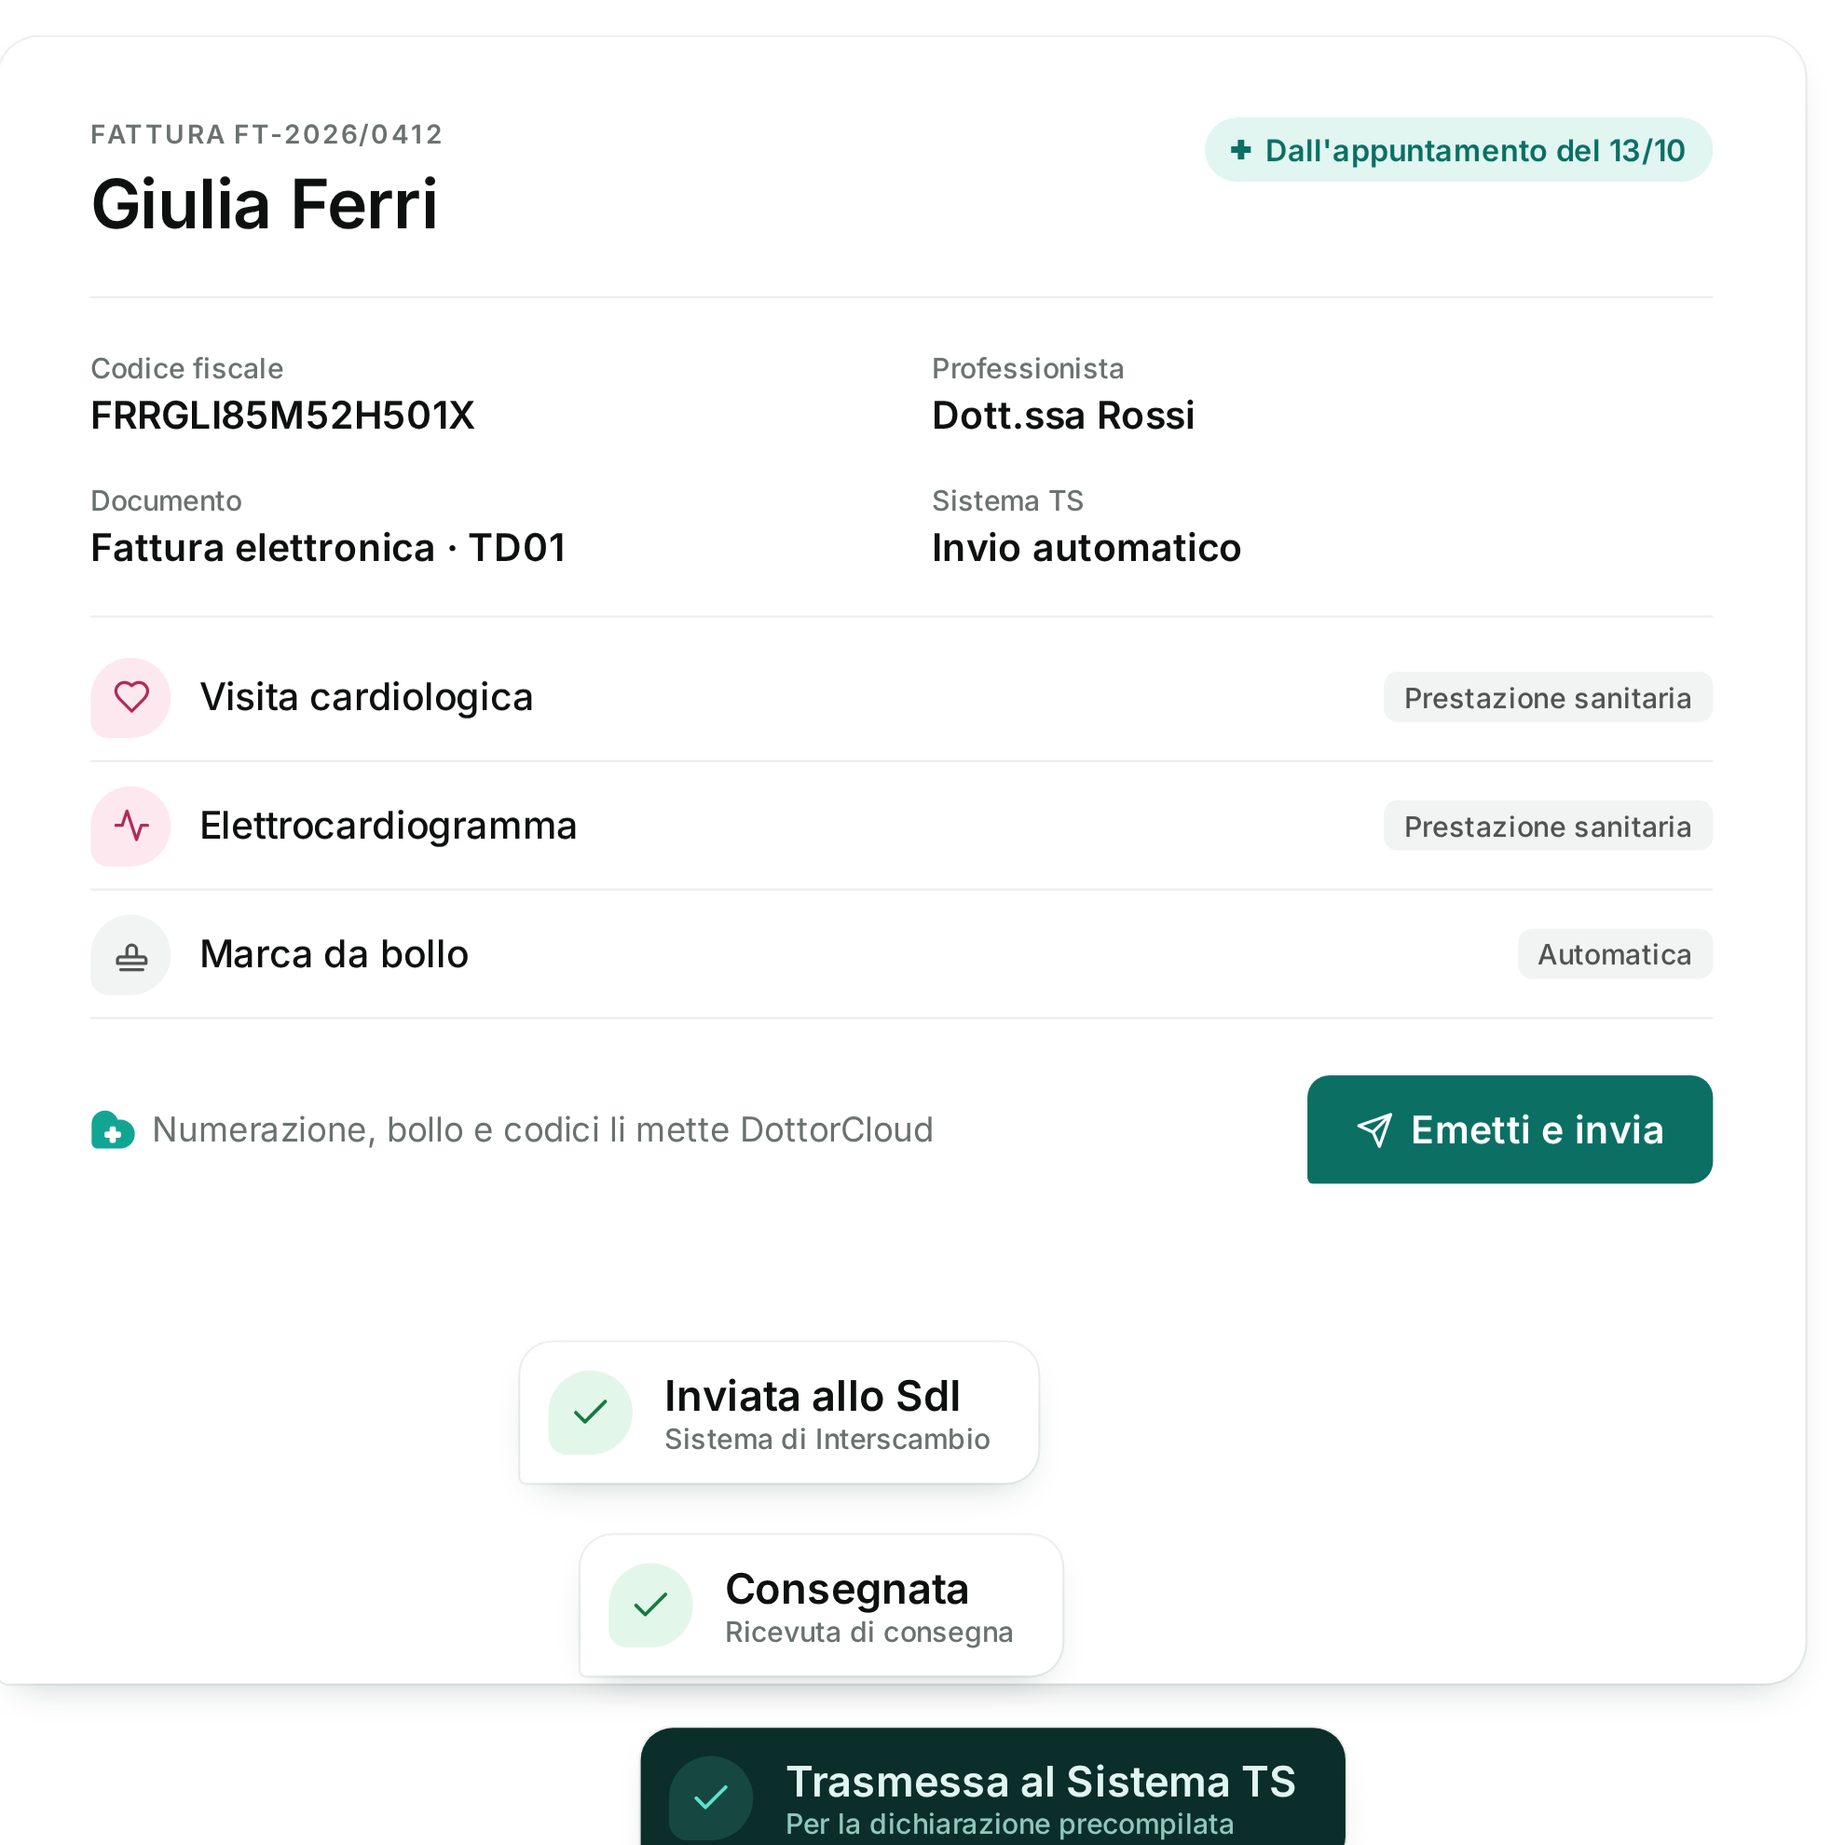
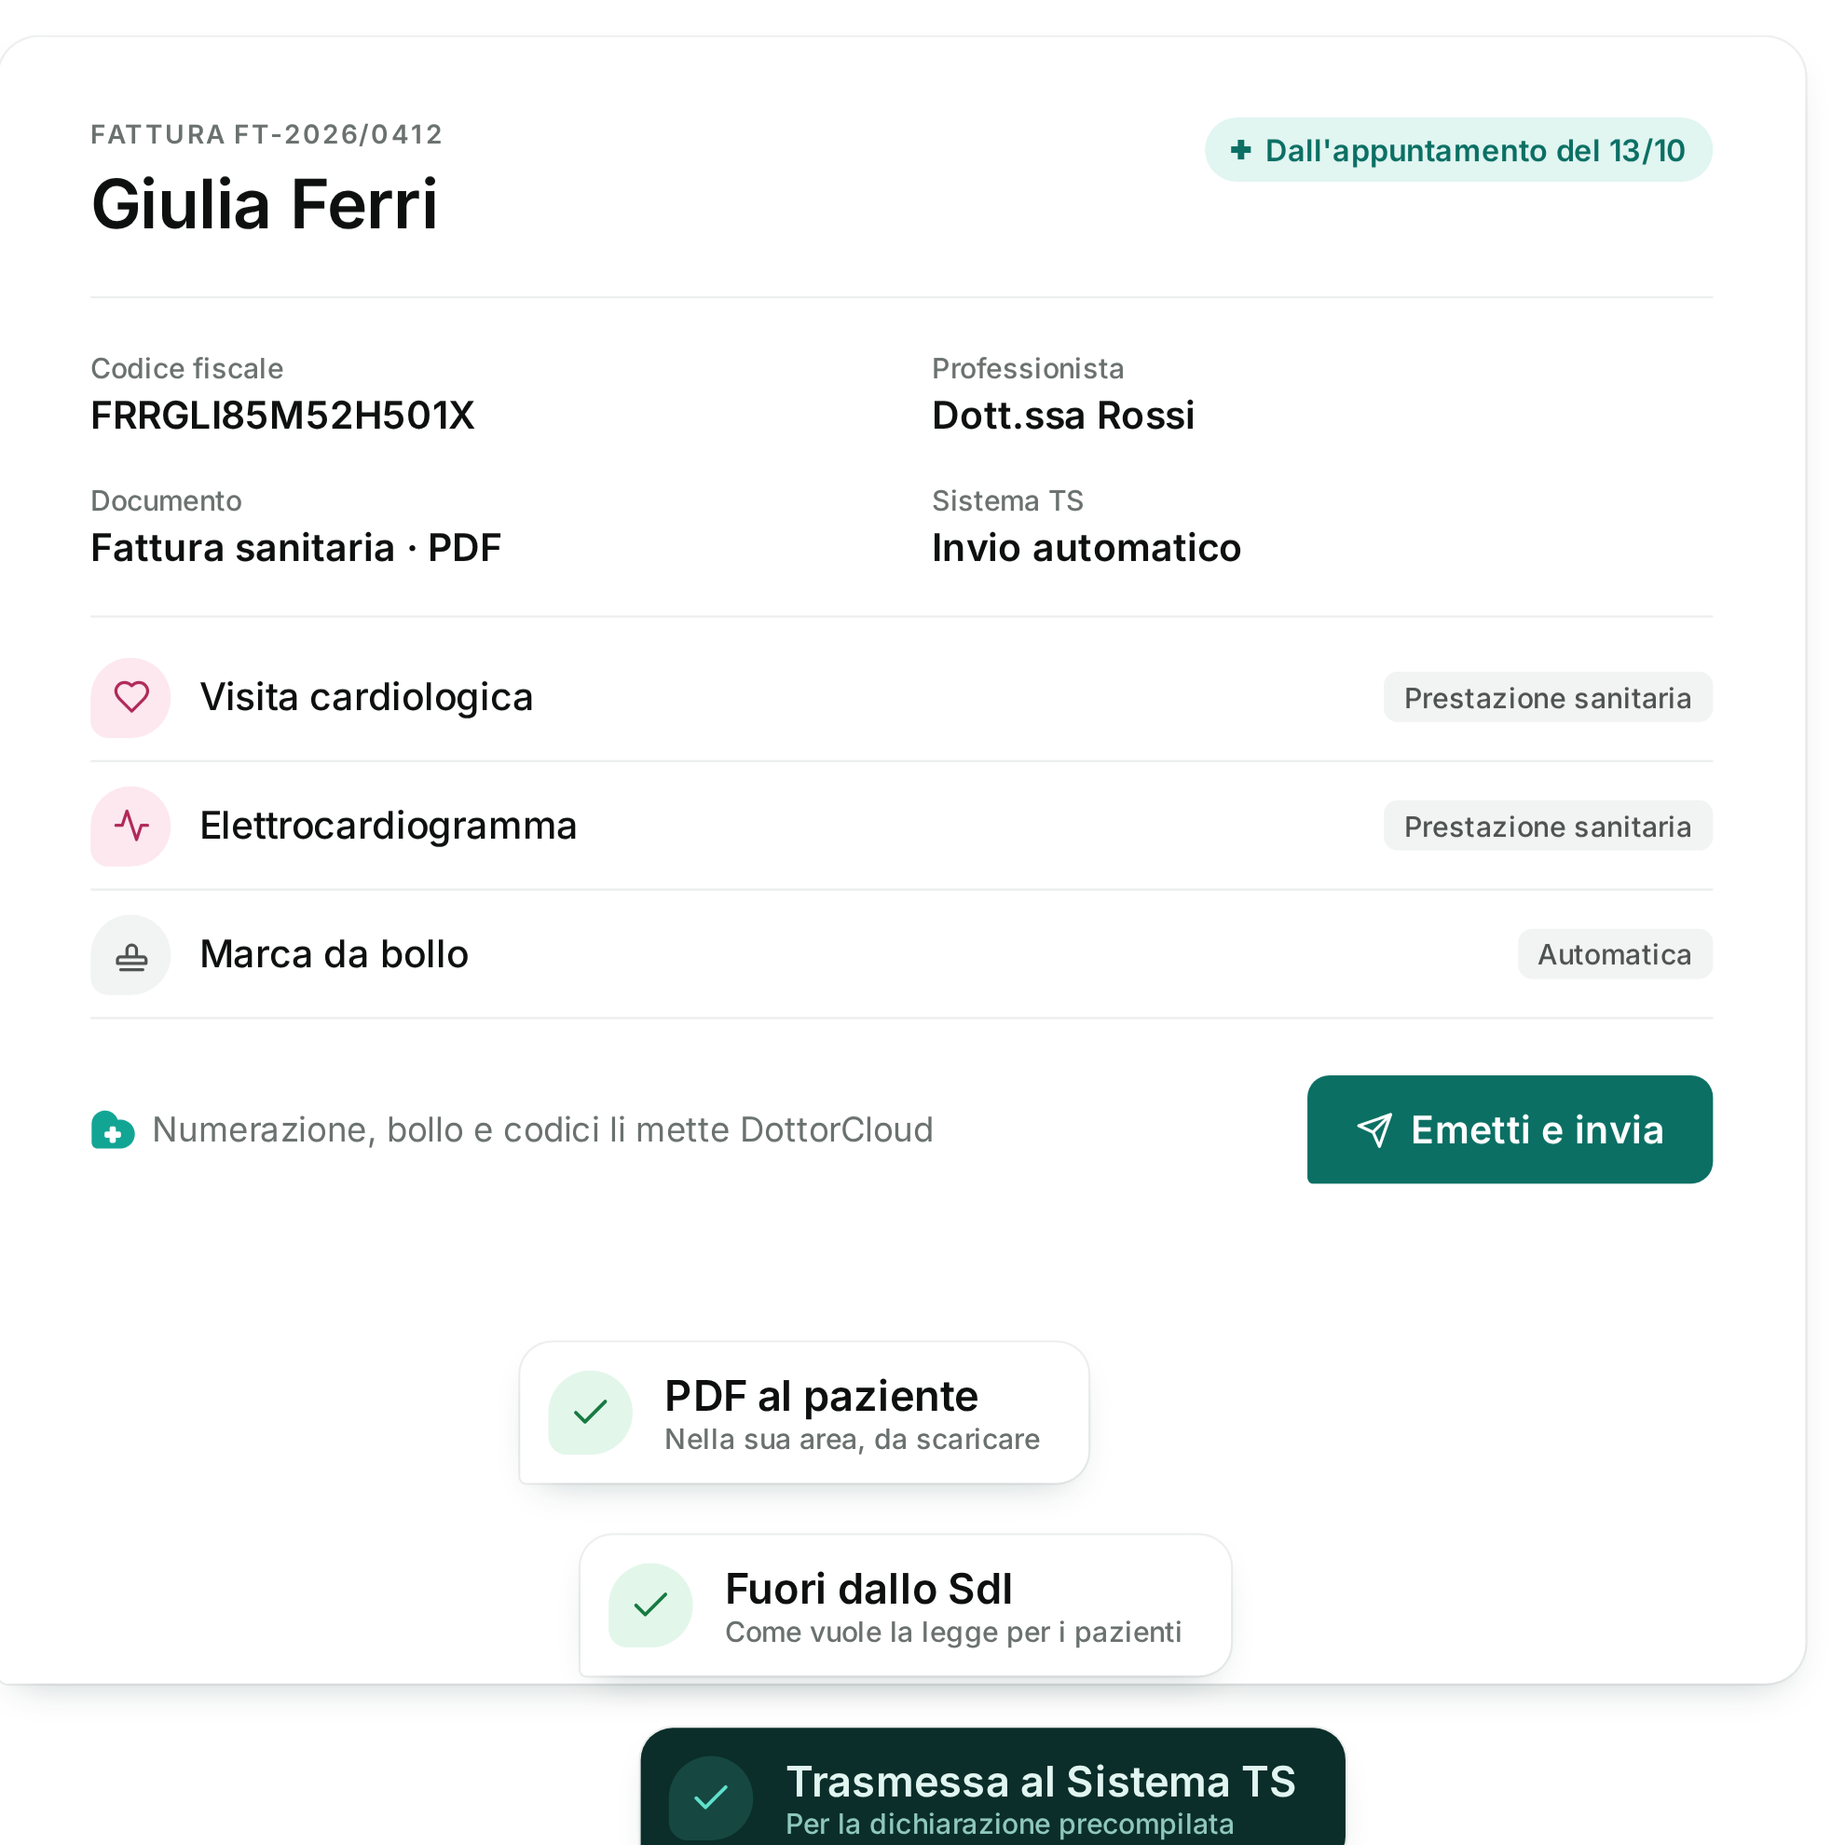
fix: la fattura del paziente non passa dallo SdI
Una prestazione sanitaria a una persona fisica non si fattura via SdI (art.
10-bis DL 119/2018, a regime dal D.Lgs. 81/2025): il gestionale la fa in PDF
con le spese al Sistema TS, ma sito, video, presentazione e inserzioni
dicevano "inviata allo SdI". La schermata della fattura e i testi ora dicono
PDF al paziente, Sistema TS, SdI per aziende ed enti.

Claude-Session: https://claude.ai/code/session_019omCPMHgUWhFNUA2V3e92d

Changed region(s): [[0.4005, 0.8318, 0.647, 0.8934], [0.3697, 0.7394, 0.5545, 0.801], [0.1232, 0.2773, 0.3081, 0.3081]]

diff --git a/brand/video/sorgenti/video.html b/brand/video/sorgenti/video.html
@@ -502,7 +502,7 @@ svg.i { width: 1em; height: 1em; stroke: currentColor; fill: none; stroke-width:
   <div class="left">
     <div><span class="eyebrow" id="fa-e"><svg class="i" data-p="file"></svg>Fatturazione</span></div>
     <div class="cap" style="font-size:88px"><span class="kin" id="fa-h">La fattura ~nasce ~dalla ~visita.</span></div>
-    <div class="sub"><span class="kin" id="fa-s">Elettronica, allo SdI e al Sistema TS, senza ricopiare niente.</span></div>
+    <div class="sub"><span class="kin" id="fa-s">Al paziente in PDF, le spese al Sistema TS, allo SdI quando va.</span></div>
   </div>
   <div class="card inv" id="inv" style="left:900px;top:120px;width:900px;height:820px;padding:40px 46px">
     <div style="display:flex;justify-content:space-between;align-items:flex-start">
@@ -512,7 +512,7 @@ svg.i { width: 1em; height: 1em; stroke: currentColor; fill: none; stroke-width:
     <div class="meta">
       <div><label>Codice fiscale</label><div>FRRGLI85M52H501X</div></div>
       <div><label>Professionista</label><div>Dott.ssa Rossi</div></div>
-      <div><label>Documento</label><div>Fattura elettronica · TD01</div></div>
+      <div><label>Documento</label><div>Fattura sanitaria · PDF</div></div>
       <div><label>Sistema TS</label><div>Invio automatico</div></div>
     </div>
     <div id="lns" style="margin-top:8px">
@@ -522,8 +522,8 @@ svg.i { width: 1em; height: 1em; stroke: currentColor; fill: none; stroke-width:
     </div>
     <div style="display:flex;justify-content:space-between;align-items:center;margin-top:28px"><span style="color:var(--muted);font-size:17px;display:flex;align-items:center;gap:8px"><span class="lm" data-f="#12a594" data-x="#fff" style="height:20px;display:inline-block"></span>Numerazione, bollo e codici li mette DottorCloud</span><div class="btn teal" id="emit" style="height:54px;padding:0 24px;font-size:19px"><svg class="i" data-p="send"></svg>Emetti e invia</div></div>
   </div>
-  <div class="stt" id="st1" style="left:1160px;top:770px"><div class="c"><svg class="i" data-p="check"></svg></div><div>Inviata allo SdI<small>Sistema di Interscambio</small></div></div>
-  <div class="stt" id="st2" style="left:1190px;top:866px"><div class="c"><svg class="i" data-p="check"></svg></div><div>Consegnata<small>Ricevuta di consegna</small></div></div>
+  <div class="stt" id="st1" style="left:1160px;top:770px"><div class="c"><svg class="i" data-p="check"></svg></div><div>PDF al paziente<small>Nella sua area, da scaricare</small></div></div>
+  <div class="stt" id="st2" style="left:1190px;top:866px"><div class="c"><svg class="i" data-p="check"></svg></div><div>Fuori dallo SdI<small>Come vuole la legge per i pazienti</small></div></div>
   <div class="stt toast" id="st3" style="left:1220px;top:962px"><div class="c"><svg class="i" data-p="check"></svg></div><div>Trasmessa al Sistema TS<small>Per la dichiarazione precompilata</small></div></div>
 </section>
 
@@ -546,7 +546,7 @@ svg.i { width: 1em; height: 1em; stroke: currentColor; fill: none; stroke-width:
     <div class="view" id="v0">
       <div class="box"><span class="lbl">Prossimo appuntamento</span><b>Gio 15 ottobre, 11:00</b><span>Visita cardiologica · Dott.ssa Rossi</span></div>
       <div class="box"><span class="lbl">Moduli</span><b>Privacy e consenso firmati</b><span>Firmati dal telefono, il 10/10</span></div>
-      <div class="box"><span class="lbl">Fatture</span><b>2 emesse, entrambe pagate</b><span>Inviate allo SdI e al Sistema TS</span></div>
+      <div class="box"><span class="lbl">Fatture</span><b>2 emesse, entrambe pagate</b><span>In PDF ai pazienti, trasmesse al Sistema TS</span></div>
       <div class="box"><span class="lbl">Conversazioni</span><b>WhatsApp · ieri alle 18:04</b><span>"Sì, confermo"</span></div>
     </div>
     <div class="view" id="v1">
@@ -906,7 +906,7 @@ const PLANS = {
 // what each ad says before and after the product
 const AD = {
   'ad-chat': ['I pazienti ~confermano ~da ~soli.', 'Promemoria e conferme su WhatsApp, in automatico.'],
-  'ad-fatt': ['La fattura ~si ~fa ~da ~sola.', 'Dalla visita allo SdI e al Sistema TS.'],
+  'ad-fatt': ['La fattura ~si ~fa ~da ~sola.', 'Dalla visita al Sistema TS, da sola.'],
   'ad-app': ['I tuoi pazienti, ~con ~la ~loro ~app.', 'Documenti, firme e piani sul telefono.'],
   'ad-ex': ['Gli esercizi a casa, ~finalmente ~seguiti.', 'Serie, animazioni e muscoli sul telefono del paziente.'],
 }[PLAN_NAME];

diff --git a/sito/pagine/funzioni.html b/sito/pagine/funzioni.html
@@ -1,6 +1,6 @@
 <!--
 title: Funzioni · DottorCloud
-description: Campagne, telefono, WhatsApp, agende per medici, stanze e attrezzature, cartella clinica, fatture allo SdI e al Sistema TS, automazioni, l'app del paziente e i permessi per ruolo. Tutto quello che fa DottorCloud, tappa per tappa.
+description: Campagne, telefono, WhatsApp, agende per medici, stanze e attrezzature, cartella clinica, fatture con il Sistema TS e lo SdI, automazioni, l'app del paziente e i permessi per ruolo. Tutto quello che fa DottorCloud, tappa per tappa.
 path: /funzioni/
 nav: funzioni
 -->
@@ -310,7 +310,7 @@ nav: funzioni
       <div class="feature__text reveal">
         <span class="chip">{{icon receipt}} Fatture e Sistema TS</span>
         <h3 class="h3">La fattura nasce dalla visita.</h3>
-        <p class="lead">Elettronica, allo SdI e al Sistema TS, senza ricopiare niente.</p>
+        <p class="lead">Al paziente in PDF, le spese al Sistema TS, allo SdI quando va. Senza ricopiare niente.</p>
         <ul class="rows" role="list">
           <li class="row">
             <span class="bubble bubble--small">{{icon calendar-check}}</span>
@@ -318,7 +318,7 @@ nav: funzioni
           </li>
           <li class="row">
             <span class="bubble bubble--small">{{icon send}}</span>
-            <div><strong>SdI</strong><span>Invio e ricevute di consegna nel gestionale.</span></div>
+            <div><strong>SdI</strong><span>Per aziende ed enti, con le ricevute di consegna nel gestionale.</span></div>
           </li>
           <li class="row">
             <span class="bubble bubble--small">{{icon file-check}}</span>
@@ -334,7 +334,7 @@ nav: funzioni
       <div class="feature__media reveal" style="--i: 2">
         <img
           src="/img/fattura.webp"
-          alt="La fattura di Giulia Ferri nata dall'appuntamento: visita cardiologica, elettrocardiogramma e marca da bollo automatica; inviata allo SdI, consegnata e trasmessa al Sistema TS"
+          alt="La fattura di Giulia Ferri nata dall'appuntamento: visita cardiologica, elettrocardiogramma e marca da bollo automatica; il PDF nell'area della paziente, fuori dallo SdI, e le spese trasmesse al Sistema TS"
         />
       </div>
     </article>
@@ -594,7 +594,7 @@ nav: funzioni
       <li class="card card--checked reveal" style="--i: 3">
         <span class="bubble">{{icon receipt}}</span>
         <h3>Fatturazione</h3>
-        <p>Elettronica, SdI e Sistema TS.</p>
+        <p>Sistema TS, SdI e PDF al paziente.</p>
         <span class="check">{{icon check}}</span>
       </li>
       <li class="card card--checked reveal" style="--i: 4">

diff --git a/sito/pagine/index.html b/sito/pagine/index.html
@@ -195,8 +195,8 @@ nav: home
         <span class="chip">{{icon receipt}} Fatture e Sistema TS</span>
         <h2 class="h2">La fattura nasce dalla visita.</h2>
         <p class="lead">
-          Chiudi la visita e la fattura è pronta: elettronica, inviata allo SdI e trasmessa al Sistema TS.
-          Senza ricopiare niente.
+          Chiudi la visita e la fattura è pronta: al paziente in PDF, con le spese trasmesse al Sistema TS;
+          alle aziende elettronica, allo SdI. Senza ricopiare niente.
         </p>
         <ul class="rows" role="list">
           <li class="row">
@@ -205,7 +205,7 @@ nav: home
           </li>
           <li class="row">
             <span class="bubble bubble--small">{{icon send}}</span>
-            <div><strong>SdI e Sistema TS</strong><span>Invio, ricevute e spese sanitarie per la precompilata.</span></div>
+            <div><strong>Sistema TS e SdI</strong><span>Le spese per la precompilata; lo SdI solo dove la legge lo vuole.</span></div>
           </li>
           <li class="row">
             <span class="bubble bubble--small">{{icon stamp}}</span>
@@ -217,7 +217,7 @@ nav: home
       <div class="feature__media reveal" style="--i: 2">
         <img
           src="/img/fattura.webp"
-          alt="La fattura di Giulia Ferri nata dall'appuntamento del 13/10: visita cardiologica, elettrocardiogramma e marca da bollo automatica, poi inviata allo SdI, consegnata e trasmessa al Sistema TS"
+          alt="La fattura di Giulia Ferri nata dall'appuntamento del 13/10: visita cardiologica, elettrocardiogramma e marca da bollo automatica; il PDF nell'area della paziente, fuori dallo SdI, e le spese trasmesse al Sistema TS"
         />
       </div>
     </article>
@@ -405,8 +405,9 @@ nav: home
       <details>
         <summary>Fa le fatture elettroniche e il Sistema TS? {{icon chevron-down}}</summary>
         <p>
-          Sì. Dalla visita svolta nasce la fattura elettronica, che va allo SdI e al Sistema TS. Bollo e
-          numerazione li mette il gestionale, e la segreteria vede anche le visite svolte e non ancora
+          Sì. Dalla visita svolta nasce la fattura: al paziente in PDF, con le spese trasmesse al Sistema TS
+          (una prestazione sanitaria a una persona, per legge, non passa dallo SdI); ad aziende ed enti
+          elettronica, allo SdI. Bollo e numerazione li mette il gestionale, e la segreteria vede anche le visite svolte e non ancora
           fatturate.
         </p>
       </details>

diff --git a/brand/ads/sorgenti/grafiche.html b/brand/ads/sorgenti/grafiche.html
@@ -53,7 +53,7 @@ h1 em { font-style: normal; color: var(--teal-700); }
 const C = {
   tutto: { dark: true, chip: 'Il gestionale per i centri medici', h: 'Tutto il tuo centro medico, <em>in un posto solo.</em>', sub: 'Agende, cartelle, fatture, messaggi e l\'app per i pazienti.', img: ['logo-orbit'] },
   livelli: { chip: 'Permessi per ruolo', h: 'Ognuno vede <em>solo quello che gli serve.</em>', sub: 'Il medico la cartella, il marketing le campagne. Mai i dati clinici.', img: ['livelli-medico', 'livelli-marketing'], layout: 'stack' },
-  fattura: { chip: 'Fatturazione', h: 'La fattura <em>nasce dalla visita.</em>', sub: 'Elettronica, allo SdI e al Sistema TS, senza ricopiare niente.', img: ['fattura'] },
+  fattura: { chip: 'Fatturazione', h: 'La fattura <em>nasce dalla visita.</em>', sub: 'Al paziente in PDF, le spese al Sistema TS, allo SdI quando va.', img: ['fattura'] },
   conferme: { chip: 'WhatsApp e promemoria', h: 'I pazienti <em>confermano da soli.</em>', sub: 'Promemoria automatici, risposte e note sulla scheda del paziente.', img: ['chat'] },
   casa: { chip: 'Area paziente', h: 'Piani ed esercizi, <em>sul telefono del paziente.</em>', sub: 'Il professionista li scrive, il paziente li segue.', img: ['dieta', 'esercizio'], layout: 'pair' },
   privacy: { dark: true, chip: 'Privacy e GDPR', h: 'I dati dei pazienti, <em>protetti.</em>', sub: 'Server in Europa, un\'azienda italiana, ogni accesso registrato.', img: ['gdpr'] },

diff --git a/sito/pagine/per-chi.html b/sito/pagine/per-chi.html
@@ -65,8 +65,8 @@ nav: per-chi
         <span class="bubble">{{icon receipt}}</span>
         <h3>Amministrazione</h3>
         <p>
-          La fattura nasce dalla visita: elettronica, allo SdI e al Sistema TS, con bollo e numerazione già
-          messi.
+          La fattura nasce dalla visita: al paziente in PDF con le spese al Sistema TS, allo SdI quando va,
+          con bollo e numerazione già messi.
         </p>
         <ul class="ticks" role="list">
           <li>Niente da ricopiare</li>

diff --git a/brand/video/storyboard.md b/brand/video/storyboard.md
@@ -72,7 +72,7 @@ attraversa lo schermo.
 | 35,0–40,2 | Visita | Cartella clinica | "Schede cliniche, note e referti. Al sicuro." |
 | 40,2–45,0 | Visita | Assistente IA, "Presto" | "L'assistente IA per il medico." |
 | 45,0–47,2 | 04 | Mappa: "Dopo la visita" | "Fattura e richiami, da soli." |
-| 47,2–51,2 | Dopo | Fattura → SdI → Sistema TS | "La fattura nasce dalla visita." |
+| 47,2–51,2 | Dopo | Fattura → PDF al paziente → Sistema TS | "La fattura nasce dalla visita." |
 | 51,2–54,6 | Dopo | Automazione: recensione, richiamo a 6 mesi | "Automazioni che lavorano al posto tuo." |
 | 54,6–56,8 | 05 | Mappa: "A casa" | "Piani, esercizi e documenti sul telefono." |
 | 56,8–61,6 | A casa | Accesso: codice via SMS, viso, home | "Il paziente entra con un codice, poi col viso." |

diff --git a/brand/ads/testi.md b/brand/ads/testi.md
@@ -21,10 +21,10 @@ più" o "Contattaci").
 
 ## La fattura nasce dalla visita — `grafiche/fattura-*`, `video/DottorCloud-ad-fatt-*`
 
-- **Testo principale:** Chiudi la visita e la fattura è pronta: elettronica,
-  inviata allo SdI e trasmessa al Sistema TS. Senza ricopiare niente.
+- **Testo principale:** Chiudi la visita e la fattura è pronta: al paziente in
+  PDF, le spese al Sistema TS, allo SdI quando va. Senza ricopiare niente.
 - **Titolo:** La fattura si fa da sola
-- **Descrizione:** SdI e Sistema TS inclusi
+- **Descrizione:** Sistema TS e SdI inclusi
 
 ## I pazienti confermano da soli — `grafiche/conferme-*`, `video/DottorCloud-ad-chat-*`
 
